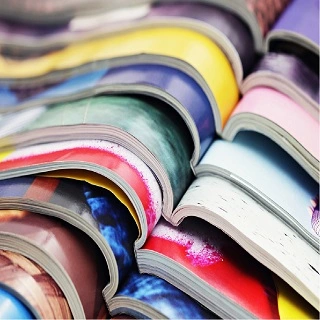
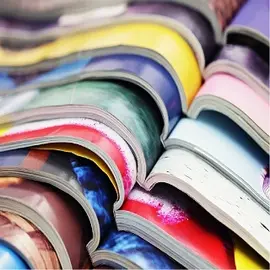
correction size img2

diff --git a/stylemin.css b/stylemin.css
@@ -78,8 +78,10 @@ a:hover {
   right: 0;
 }
 .col-sm-6 img {
-  width: 320px;
+  width: 270px;
+  height: 270px;
 }
+
 .texture-paper::before {
   background: url(img/texture-paper.png);
   background-size: 280px 280px;
